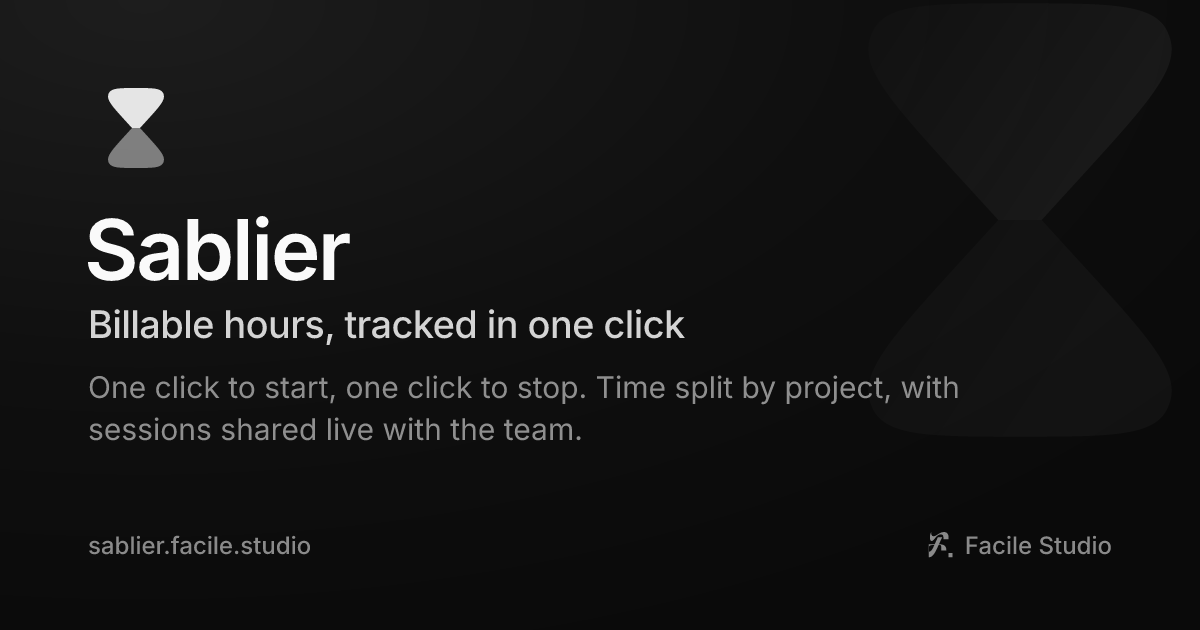
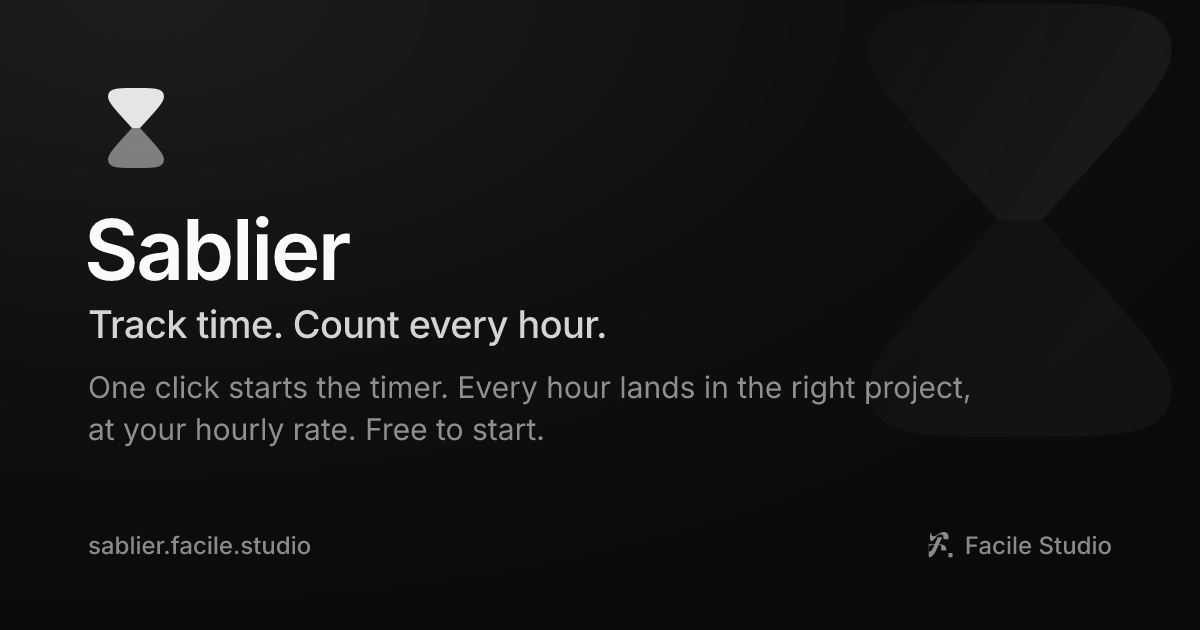
🐛 fix(client): ship the new share image, manifest and head with muse v0.25.1

Changed region(s): [[0.0617, 0.4825, 0.5858, 0.5429], [0.185, 0.573, 0.8017, 0.6333], [0.0617, 0.6635, 0.4933, 0.7238]]

diff --git a/apps/client/src/app.html b/apps/client/src/app.html
@@ -20,7 +20,7 @@
 			})();
 		</script>
 
-		<title>Sablier · Your billable hours, tracked in one click</title>
+		<title>Sablier · Track time. Count every hour.</title>
 		<meta name="description" content="One click starts the timer. Every hour lands in the right project, at your hourly rate. Free to start." />
 		<link rel="icon" href="/favicon.svg" type="image/svg+xml" />
 		<link rel="icon" href="/favicon.ico" sizes="48x48" />
@@ -32,14 +32,14 @@
 		<meta property="og:site_name" content="Facile" />
 		<meta property="og:locale" content="en_US" />
 		<meta property="og:url" content="https://sablier.facile.studio/" />
-		<meta property="og:title" content="Sablier · Your billable hours, tracked in one click" />
+		<meta property="og:title" content="Sablier · Track time. Count every hour." />
 		<meta property="og:description" content="One click starts the timer. Every hour lands in the right project, at your hourly rate. Free to start." />
 		<meta property="og:image" content="https://sablier.facile.studio/og-image.png" />
 		<meta property="og:image:width" content="1200" />
 		<meta property="og:image:height" content="630" />
-		<meta property="og:image:alt" content="Sablier: Your billable hours, tracked in one click" />
+		<meta property="og:image:alt" content="Sablier: Track time. Count every hour." />
 		<meta name="twitter:card" content="summary_large_image" />
-		<meta name="twitter:title" content="Sablier · Your billable hours, tracked in one click" />
+		<meta name="twitter:title" content="Sablier · Track time. Count every hour." />
 		<meta name="twitter:description" content="One click starts the timer. Every hour lands in the right project, at your hourly rate. Free to start." />
 		<meta name="twitter:image" content="https://sablier.facile.studio/og-image.png" />
 
